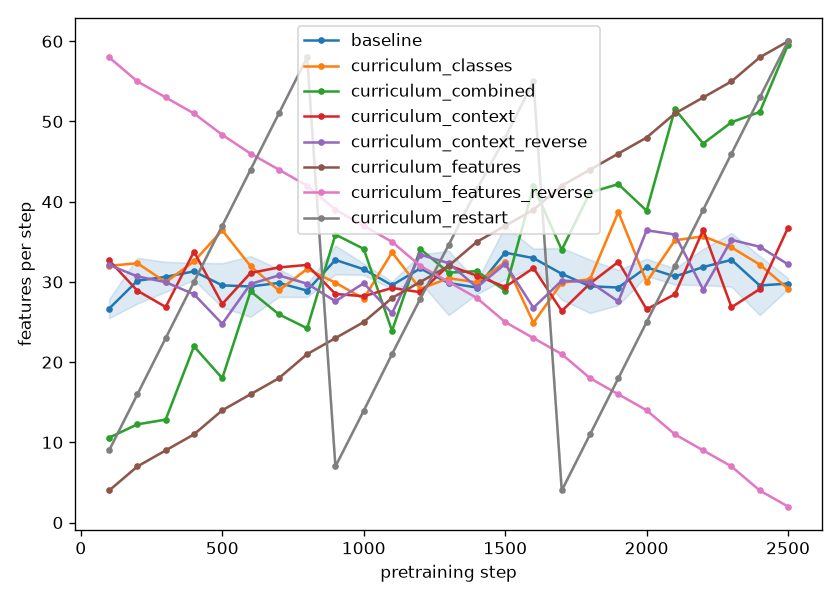
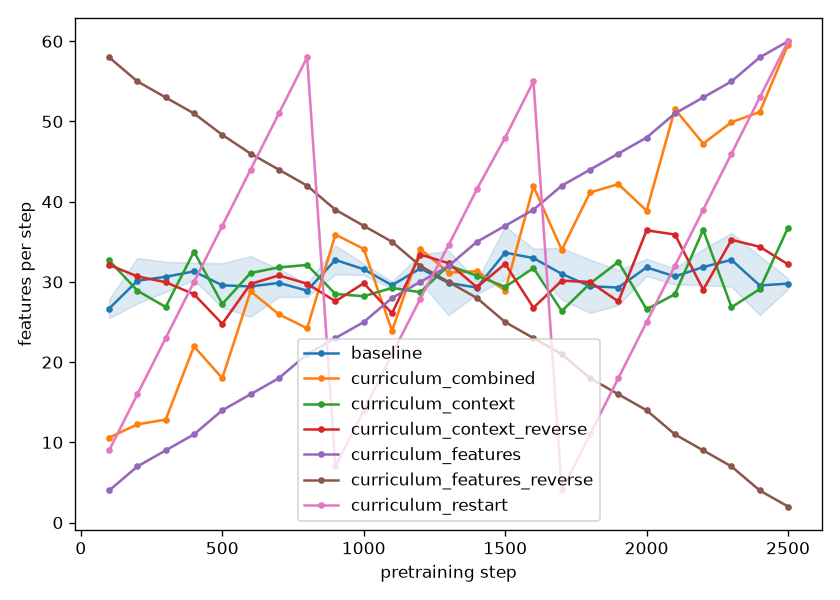
Remove the classes axis from code, plots, results, and the writeup

diff --git a/Second_Wave/train.py b/Second_Wave/train.py
@@ -22,7 +22,7 @@ from tfmplayground.models.nanotabpfn import NanoTabPFNModel
 from tfmplayground.utils import get_default_device, set_randomness_seed
 
 from plot import plot_run
-from pool import load_pool, n_classes, order_indices, ordering_profile
+from pool import load_pool, order_indices, ordering_profile
 from prior import build_validation
 
 
@@ -156,7 +156,7 @@ def main():
     log_path = out_dir / "log.csv"
     with open(log_path, "w", newline="") as f:
         csv.writer(f).writerow([
-            "step", "mean_features", "mean_classes", "mean_context",
+            "step", "mean_features", "mean_context",
             "train_loss", "val_loss", "val_acc", "val_auc",
             "val_auc_easy", "val_auc_medium", "val_auc_hard",
             "cum_time_s", "cum_flops", "peak_gpu_gb",
@@ -177,7 +177,6 @@ def main():
         running = 0.0
         used = 0
         step_features = []
-        step_classes = []
         step_context = []
         for _ in range(grad_accum):
             it = items[order[cursor % len(order)]]
@@ -190,7 +189,6 @@ def main():
             running += loss.item() * grad_accum
             used += 1
             step_features.append(it["n_features"])
-            step_classes.append(n_classes(it))
             step_context.append(split)
             cum_flops += approx_flops(x.shape[1], it["n_features"], model)
         torch.nn.utils.clip_grad_norm_(model.parameters(), 1.0)
@@ -206,8 +204,7 @@ def main():
             vl, va, vauc = r["all"]
             with open(log_path, "a", newline="") as f:
                 csv.writer(f).writerow([
-                    step, round(mean(step_features), 2), round(mean(step_classes), 2),
-                    round(mean(step_context), 2),
+                    step, round(mean(step_features), 2), round(mean(step_context), 2),
                     round(running / max(used, 1), 6),
                     round(vl, 6), round(va, 4), fmt(vauc),
                     fmt(r["easy"][2]), fmt(r["medium"][2]), fmt(r["hard"][2]),

diff --git a/Second_Wave/pool.py b/Second_Wave/pool.py
@@ -28,7 +28,6 @@ def build_pool(out_path, size, min_features, max_features, max_classes, num_data
             "y": y.cpu().contiguous(),
             "split": int(b["train_test_split_index"]),
             "n_features": int(x.shape[2]),
-            "n_classes": int(y.unique().numel()),
         })
     out_path = pathlib.Path(out_path)
     out_path.parent.mkdir(parents=True, exist_ok=True)
@@ -49,15 +48,8 @@ def load_pool(path):
     return torch.load(path, weights_only=False)["items"]
 
 
-def n_classes(item):
-    if "n_classes" in item:
-        return item["n_classes"]
-    return int(item["y"].unique().numel())
-
-
 AXIS_DEFAULTS = {
     "curriculum": ["features"],
-    "curriculum_classes": ["classes"],
     "curriculum_context": ["context"],
     "curriculum_combined": ["features", "context"],
 }
@@ -66,8 +58,6 @@ AXIS_DEFAULTS = {
 def axis_values(items, axis):
     if axis == "features":
         return [it["n_features"] for it in items]
-    if axis == "classes":
-        return [n_classes(it) for it in items]
     if axis == "context":
         return [-it["split"] for it in items]
     raise ValueError(f"unknown axis {axis!r}")
@@ -94,7 +84,7 @@ def ordering_profile(items, order):
 
     position = list(range(len(order)))
     profile = {}
-    for axis in ("features", "classes", "context"):
+    for axis in ("features", "context"):
         values = axis_values(items, axis)
         profile[axis] = round(float(spearmanr(position, [values[i] for i in order]).statistic), 3)
     return profile

diff --git a/Second_Wave/plot.py b/Second_Wave/plot.py
@@ -77,7 +77,6 @@ def main():
     compare("val_auc", "validation ROC-AUC (shared set)", "val_auc.png")
     compare("val_loss", "validation loss (shared set)", "val_loss.png")
     compare("mean_features", "features per step", "feature_ramp.png")
-    compare("mean_classes", "classes per step", "class_ramp.png")
     compare("mean_context", "in-context training examples per step", "context_ramp.png")
 
 

diff --git a/Second_Wave/FINDINGS.md b/Second_Wave/FINDINGS.md
@@ -45,7 +45,7 @@ schedule-free AdamW at lr 0.003892, effective batch 32 via gradient accumulation
 step-based. Validation is a fixed shared set, split into easy/medium/hard feature bands. Evaluation is
 TabArena ROC-AUC (one-vs-rest); after the size filters, 16 of the 51 tasks are actually scored.
 
-## 4. Eight orderings, one pattern
+## 4. Seven orderings, one pattern
 
 Mean TabArena ROC-AUC over 3 seeds. Baseline is the same pool in random order.
 
@@ -58,7 +58,6 @@ Mean TabArena ROC-AUC over 3 seeds. Baseline is the same pool in random order.
 | features, many to few | few features | 0.7623 | −0.029 |
 | features + in-context combined | example-poor end | 0.7506 | −0.041 |
 | in-context examples, many to few | few examples | 0.7424 | −0.049 |
-| classes, few to many | 10 classes | 0.6830 | −0.108 |
 
 The ranking is not explained by difficulty direction. It is explained by where each run *finishes*.
 
@@ -91,34 +90,28 @@ pretrained in.
 |---|---|---|
 | features | 2 – 60 | median 20, q75 37, max 112 |
 | in-context examples | **20 – 180** | **673 – 4500** (median 1439) |
-| classes | 2 – 10, 60% binary | 2 – 8, 62% binary |
 
-Three things follow:
+Two things follow:
 
 1. **There is a large coverage gap in in-context examples.** The model never sees more than 180
    in-context examples during pretraining but is evaluated with 673–4500. On an axis this badly
    uncovered, finishing nearer the evaluation regime matters, which is exactly what the reversal
    showed.
-2. **The class distribution already matches well** (60% vs 62% binary), so the collapse of the class
-   curriculum is not a coverage problem — it is purely an effect of the ending, made worse because
-   class count changes the *output space*: sorting by it starves most of the 10-unit head for the
-   first 60% of training.
-3. **Features do not fit a simple "finish near the evaluation median" rule** — the evaluation median
+2. **Features do not fit a simple "finish near the evaluation median" rule** — the evaluation median
    is 20 features, so ending at 2 is numerically closer than ending at 60, yet ending at 60 wins.
    The better reading is that feature count is a *capacity* axis where the harder regime subsumes the
    easier one: a model that has just been trained on 60 features handles 9 features fine, but not the
    reverse.
 
-So the honest statement is not one rule but three regularities:
+So the honest statement is not one rule but two regularities:
 
 - axes where pretraining does not cover evaluation → finish close to evaluation
 - axes where harder subsumes easier → finish hard
-- axes that change the output space → mismatch is severely punished
 
 ## 7. What we are not claiming
 
-- With 3 seeds the between-seed spread is about 0.01. The **negative** effects (−0.03 to −0.11) are
-  far outside that. The **positive** effects (+0.020, +0.016) are around twice the spread:
+- With 3 seeds the between-seed spread is about 0.01. The **negative** effects (−0.03 to −0.05) are
+  outside that. The **positive** effects (+0.020, +0.016) are around twice the spread:
   consistent and directional, but not conclusive. More seeds would settle it.
 - Only 16 datasets are scored, which is a small evaluation set and contributes to that spread.
 - Everything here is at one model size, one step budget, and one prior. We have not tested whether
